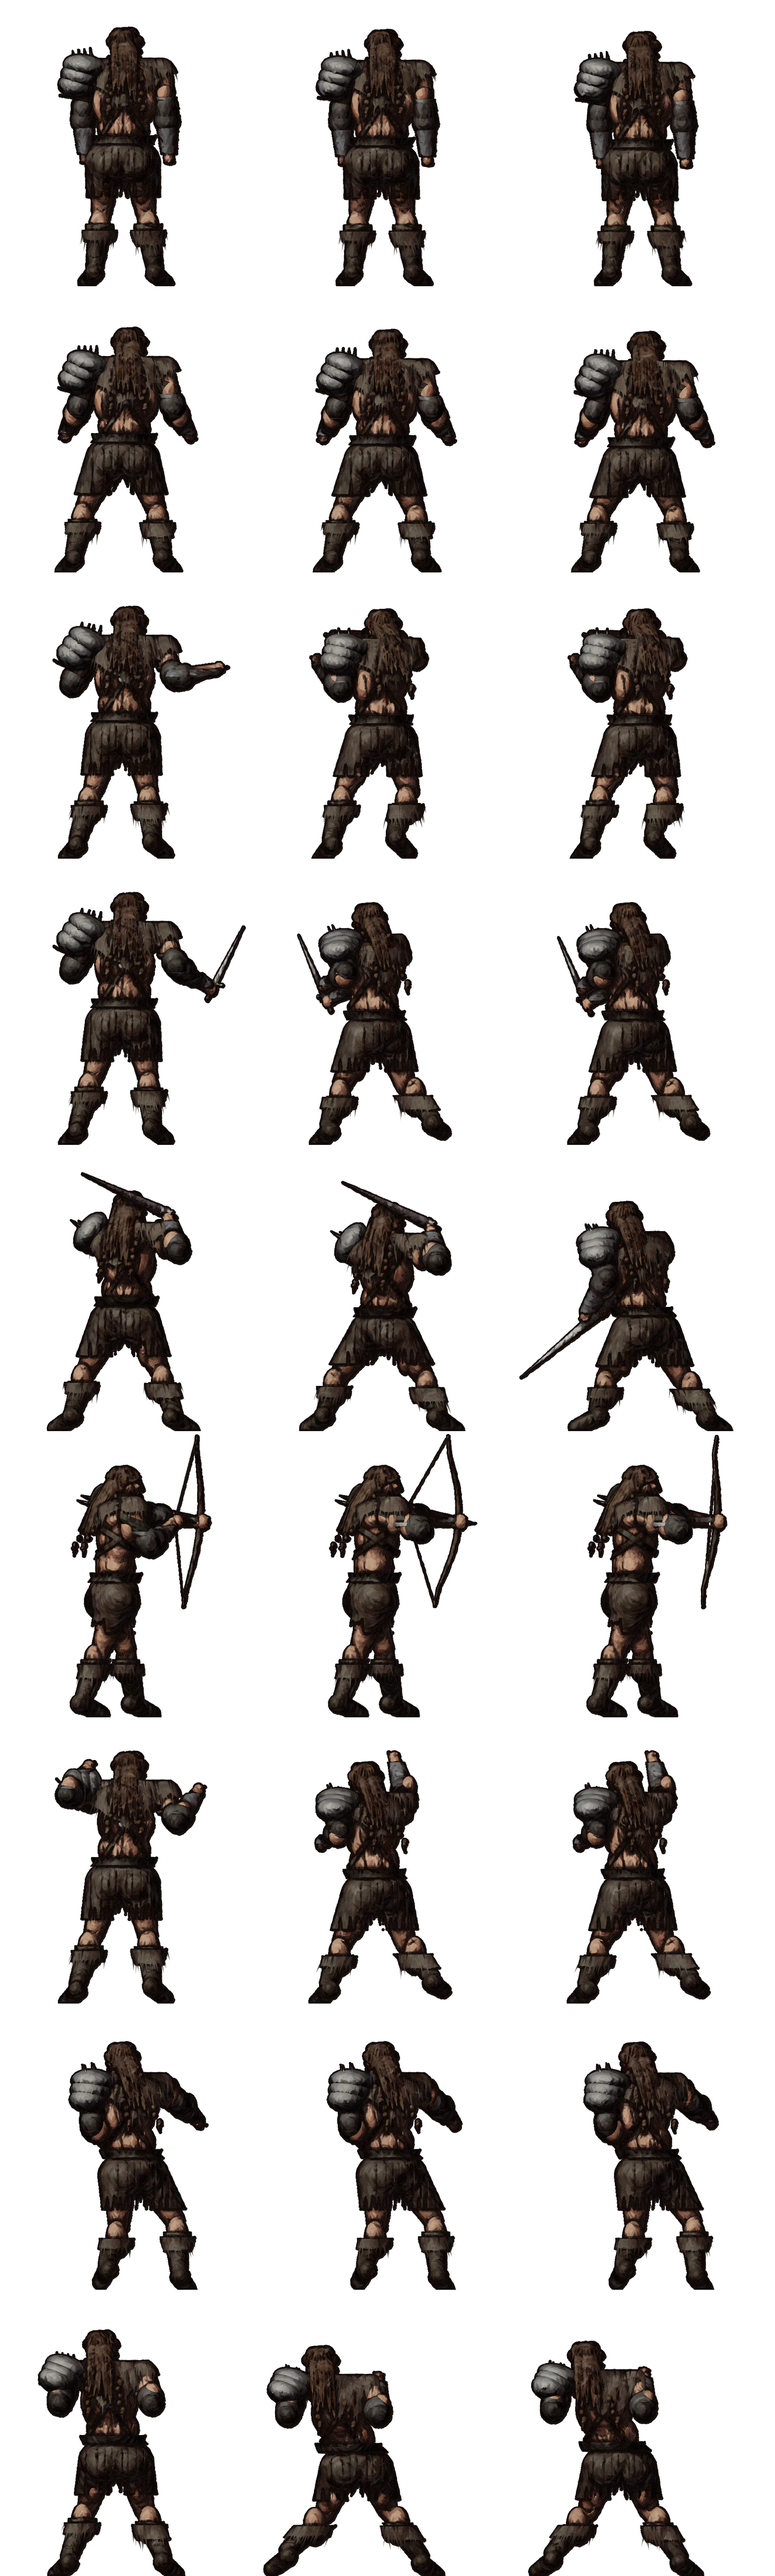
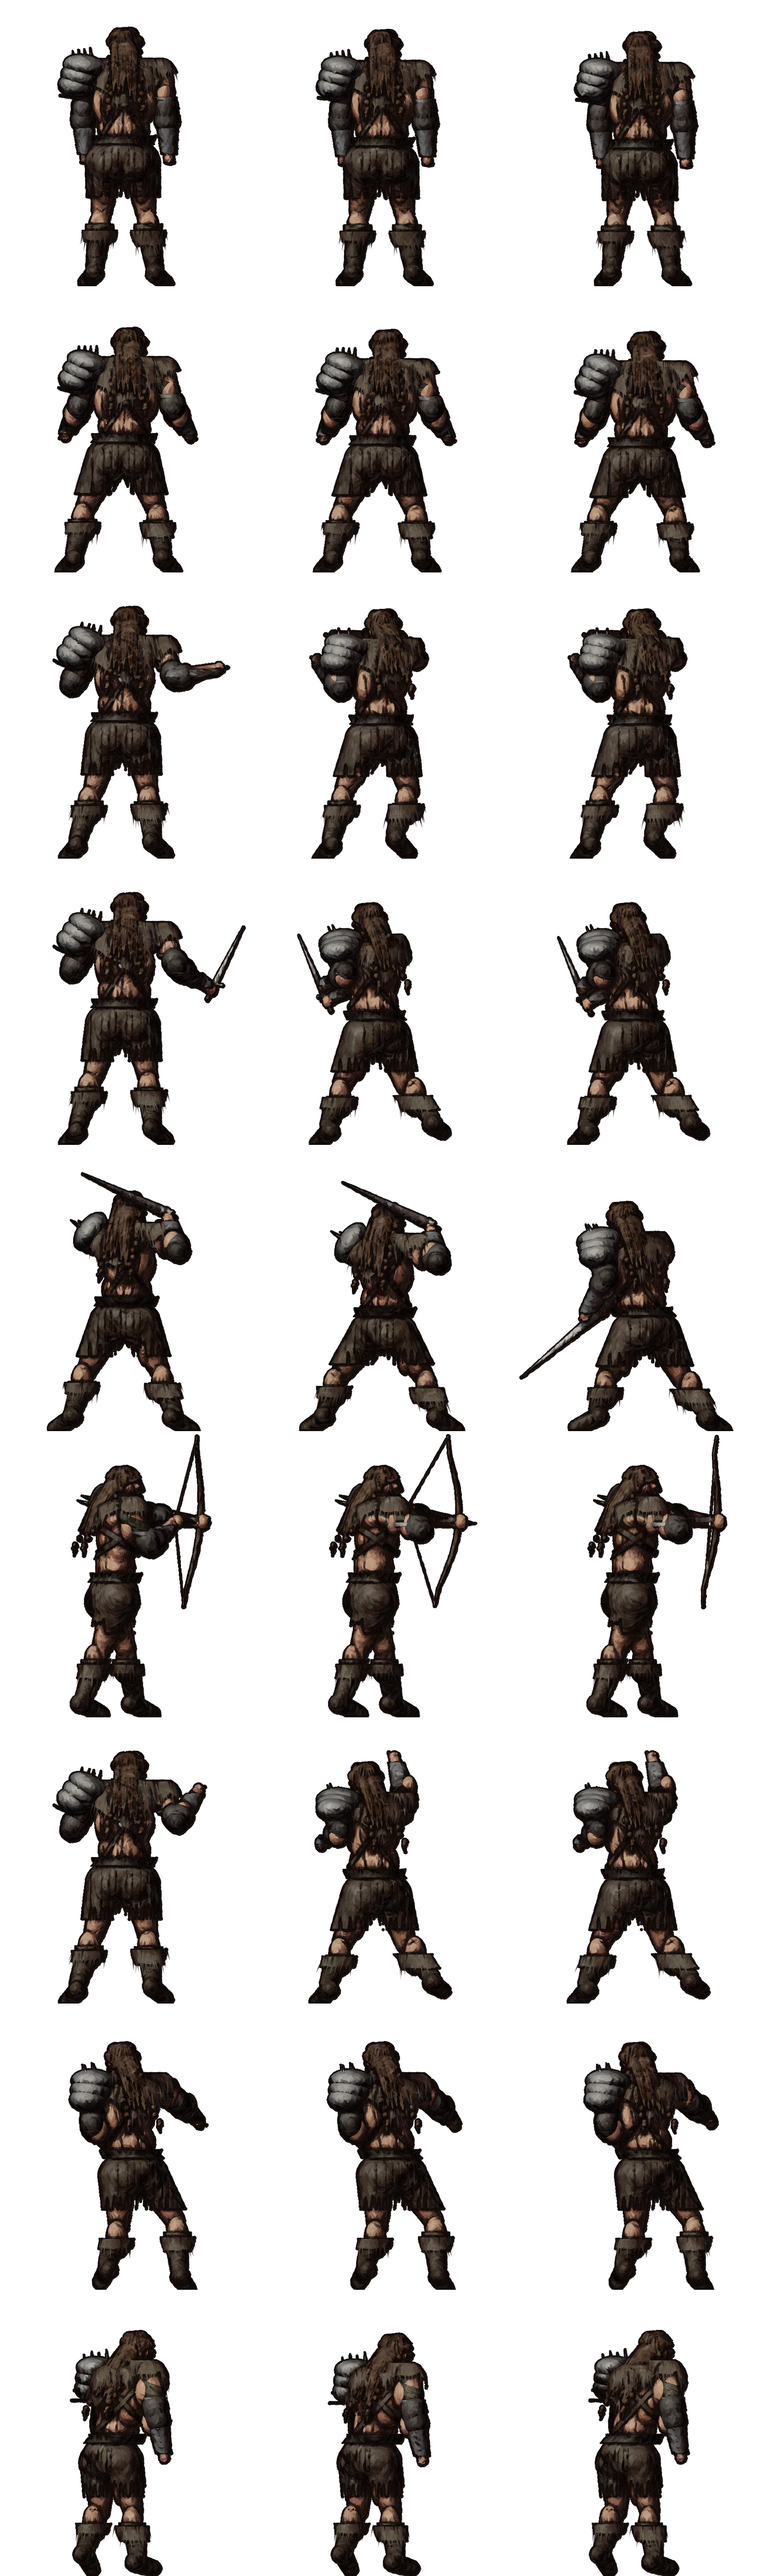
회피 동작 원래 칸으로 · 주문 첫 칸 왼팔 앞으로(AM54)
Claude-Session: https://claude.ai/code/session_01Afqs6emXDm5CcgKpbdj1LN

diff --git a/docs/ASSUMPTIONS.md b/docs/ASSUMPTIONS.md
@@ -636,6 +636,7 @@
 | AM51 | **인간 탐험가 망토 밑단 = 종아리**(사용자 2026-10-29 "전투 화면에서 망토 끝자락 단을 종아리까지 올려 줘" — 처음엔 캐릭터 전체를 올리는 것으로 알아듣고 바꿨다가 되돌림): h6 순찰자 망토 `len` 0.72 → 0.55(골반에서 땅까지의 55% — 장화 윗부분과 종아리가 보인다). 전투 뒷모습·동작 시트·맵 몸 그림을 다시 그림. 고정한 돌아선 자세 줄(AM48 `pinned/human_back_wait.png`)은 그 그림을 만든 커밋 d9fa108 코드에 망토 길이만 바꿔 다시 그려 고정(같은 코드로 0.72가 고정 그림과 픽셀까지 같은 것을 확인) | 긴 망토가 장화까지 덮어 다리가 안 보였다 | `tools/monster_art/MapLooks.gd` h6_ranger `cloak.len` → `paint_monsters --only=human_back`·`paint_motions --only=human_back`·`paint_actors --only=human`(고정 줄은 d9fa108 worktree에서 다시 그려 `pinned/`에 덮기) |
 | AM52 | **인간 망토: 목 둘레 가늘게 · 등 한복판 혹 없앰**(사용자 2026-10-30 "대기·전투 대기에서 망토랑 목이 너무 크게 이어져 있음 · 모든 프레임에서 등 한복판이 볼록"): ① 망토 겉감이 목까지 감싸던 것(`neck` 부위)을 빼고, 젖힌 두건 말이(collar)를 목 높이로 내리고 굵기 0.026 → 0.017 — 머리 뒤까지 이어지던 덩어리가 없어졌다. ② 등 자락 사슬(`echain` — 캡슐을 이은 것)이 마디 다섯 개뿐이라 이음매 구(캡슐 끝, 어깨 폭만 한 반지름)가 위 마디보다 깊어 등 위·한복판에 둥근 혹으로 솟았다 → 열쇠 높이(어깨·가슴·골반·무릎·단)를 마디 세 개씩 부드럽게 이어(13마디) 굵기·깊이가 고르게 변하게, 어깨 쪽은 좁고 얕게. 고정한 돌아선 자세 줄은 d9fa108 코드에 같은 수정(+ 망토 길이 0.55)으로 다시 그려 고정 | 망토는 어깨에서 늘어지는 천 — 목을 통째로 감싸거나 등에 혹이 생기면 안 된다 | `tools/monster_art/BackDrape.gd` drape()의 keys(높이·뒤로 빠짐·폭·깊이)·collar 값 → `paint_motions --only=human_back`·`paint_monsters --only=human_back`·`paint_actors --only=human` |
 | AM53 | **인간 망토 어깨 경계 없앰 · 공격 첫 칸 왼팔 · 회피 동작 새로**(사용자 2026-10-30 "망토 둥근 부분이 드러나는 게 싫다 — 어깨랑 망토 이어지는 경계선 지워 · 한손칼·주먹 지르기 1칸에서 왼팔이 뒤로 젖혀진 것처럼 보임 · 회피 동작 다시, 바바리안 것도"): ① 망토 겉감(몸 위 한 겹)을 0.024 → 0.032로 두껍게 하고 등 자락 사슬의 어깨·가슴 마디를 좁고 얕게 — 자락 윗부분이 겉감 아래에 묻혀 어깨~등이 한 장(둥근 판·어깨 경계선이 안 보인다). ② 주먹 지르기·칼 휘두르기 첫 칸: 왼팔(그림 왼쪽 위로 든 팔)의 팔꿈치·주먹을 먼 쪽(`d` "a" — 몸 앞)으로, 주먹을 조금 낮춰 앞으로 내민 주먹 막기 — 전엔 보는 사람 쪽으로 기울어 뒤로 젖힌 듯 보였다. ③ 회피(`wait` — 피했을 때 몸을 트는 3칸)를 새로 잼: 왼쪽으로 몸을 낮춰 비켜서며 두 주먹을 얼굴 앞으로 올려 막는 자세, 두 종족 같은 칸(인간 고정 그림 `pinned/human_back_wait.png` 지움). ④ 몸을 옆으로 옮긴 칸에서 장식이 몸 밖에 떠 보이던 것: 등 근육 결·척추 골·조끼 솔기(인간 칼집 위 막대처럼 보이던 것)·띠 치마 골·멜빵 고리·목걸이·털 망토 결·머리 타래·땋은 머리 끝(바바리안 오른팔 옆 점)이 쉰 자세 x(0)에 박혀 있던 것을 지금 자리의 목·가슴·허리·골반을 따르게, 어깨 반폭은 두 어깨 사이로 | 몸을 트는 동작이 늘면서 몸 좌표 0에 박힌 장식이 드러났다 | `tools/monster_art/party_motions.json`(thrust·swing 0칸 `d`·EL/HL, wait 3칸) · `BackDrape.GROW`·keys · `Back.body`·`BackKit`·`BackSavage`·`BackHair`의 자리 |
+| AM54 | **회피 = 원래 칸 · 주문 첫 칸 왼팔**(사용자 2026-10-30 "회피는 오징어처럼 뒤틀지 말고 살짝 옆으로 돌아 피하는 느낌 — 원래 쓰던 것처럼 · 주술 1칸 왼팔도"): AM53에서 새로 잰 회피 3칸을 버리고 원래 잰 `wait` 칸(몸을 0.9 돌려 옆으로 비켜 섬)으로 되돌림 — 고정 그림 대신 지금 몸·망토(AM51~AM53)로 두 종족 다시 그림. 주문(spell) 첫 칸 왼팔은 주먹·칼 첫 칸(AM53)처럼 뒤로 젖혀 보이던 것을 몸 앞으로 | 사용자가 원래 회피 자세를 원함 | `party_motions.json` wait·spell 0칸 |
 | AM13 | 입자는 CPUParticles2D(웹 호환), 플레이어를 따라가며 시야 반경 안에서만 생기고 월드에 남는다(걸어도 끌려가지 않음). 그림은 둥근 점(그러데이션 16px) — 손그림 입자는 A2 이후 | 지시서 §3.3·§7 | `AmbientParticles` |
 
 ## 1층 채우기 — 다른 탐험가·약탈자·밀도 (2026-10-21, 사용자 "abcdf 하고 싶은데 1층에도 약탈자가 있음" — `docs/plans/floor1_fill.md` A·B·C·D·F)

diff --git a/docs/archive/PROGRESS_LOG.md b/docs/archive/PROGRESS_LOG.md
@@ -6,6 +6,8 @@
 
 ## 작업 기록 (2026-10-20 이후 — 위가 최신)
 
+- **회피 원래대로 · 주문 첫 칸 왼팔 (2026-10-30, 사용자)** — AM54. party_motions wait = f942dae 이전 칸, spell 0칸 EL·HL·`d` = 주먹·칼 첫 칸과 같게. 두 종족 동작 시트 다시 그림, 확인 그림 `docs/screens/spell_evade.png`(주문 1칸 · 회피 3칸).
+
 - **망토 어깨 경계·공격 첫 칸 왼팔·회피 동작 새로 (2026-10-30, 사용자)** — AM53. 망토 겉감 0.032 + 등 자락 어깨 마디 좁게(둥근 판 안 보임) · party_motions thrust·swing 0칸 왼팔 앞으로(`d` EL·HL "a"는 팔꿈치까지 하면 너무 앞이라 HL만 + 주먹 낮춤) · wait(회피) 3칸 새로 잼(왼쪽으로 낮게 비켜서며 두 주먹 막기, 두 종족 같은 칸 — `pinned/human_back_wait.png` 지움, `paint_motions._pin`은 남김) · 몸을 옮긴 칸에서 쉰 자세 x에 박혀 떠 보이던 장식 고침(Back.body 등 결·척추 골, BackKit 조끼 솔기·털 망토(`hem_poly` center)·어깨 망토 주름, BackSavage 띠 치마·멜빵·목걸이, BackHair 타래·땋은 머리, BackDrape 단 범위). 다시 그림: 두 종족 동작 시트·뒷모습·맵 몸. 전후 `docs/screens/human_motions_fix.png`(대기·주먹·칼·회피 3칸), 바바리안 회피 `docs/screens/barbarian_evade.png`.
 
 - **인간 망토 목 둘레·등 혹 (2026-10-30, 사용자)** — AM52. `BackDrape.drape`: 겉감 부위에서 `neck` 뺌 · collar 말이 낮고 가늘게 · 등 자락 사슬을 열쇠 높이 5개 → 13마디로 부드럽게(이음매 구가 혹으로 솟던 것), 어깨 쪽 폭 shw → shw × 0.75. 조끼가 비쳐 보이지 않게 가슴 깊이는 그대로 덮는다. 고정한 돌아선 자세 줄(`pinned/human_back_wait.png`)은 d9fa108 worktree에 같은 수정을 넣어 다시 그림. 다시 그림: 동작 시트·전투 뒷모습·맵 몸. 전후 `docs/screens/human_cloak_back.png`(대기·전투 자세·칼 휘두르기·활). 마지막 줄(돌아선 자세 `wait`)은 회피 동작 — 적 공격을 피하면(CombatScreen `"wait" if not hit`) 몸을 틀어 피하는 3칸.

diff --git a/docs/PLAYTEST.md b/docs/PLAYTEST.md
@@ -14,7 +14,7 @@
 | 4 | 탄광 다리·원형 갱·묘 구덩이 | 안쪽 구덩이는 그대로 내려가는 낭떠러지 |
 | 5 | 인간 탐험가로 전투(동료와 함께면 잘 보인다) | 망토 밑단이 종아리 높이 — 장화 윗부분이 보인다 · 모든 동작·돌아선 자세도 같은 길이 |
 | 6 | 인간 탐험가 대기·전투 자세를 본다 | 목 둘레 망토가 가늘다(머리까지 굵게 이어지지 않는다) · 등 한복판이 볼록하지 않다 |
-| 7 | 전투에서 공격·회피를 본다(인간·바바리안) | 망토 어깨에 둥근 판·경계선이 없다 · 주먹·칼 첫 칸 왼팔이 앞으로 막는다 · 피하면 왼쪽으로 낮게 비켜서며 두 주먹을 올린다 · 몸 밖에 뜬 막대·점이 없다 |
+| 7 | 전투에서 공격·회피를 본다(인간·바바리안) | 망토 어깨에 둥근 판·경계선이 없다 · 주먹·칼 첫 칸 왼팔이 앞으로 막는다 · 피하면 몸을 살짝 옆으로 돌려 비켜 선다 · 주문 첫 칸 왼팔도 앞으로 · 몸 밖에 뜬 막대·점이 없다 |
 
 ### 균열 낭떠러지·탄광 다리 (2026-10-29)
 

diff --git a/docs/PROGRESS.md b/docs/PROGRESS.md
@@ -38,7 +38,7 @@
 
 ## 3. 최근 작업 (위가 최신, 10줄까지 — 자세한 것은 PROGRESS_LOG에서 제목으로)
 
-- 2026-10-30 **망토 어깨 경계 없앰 · 공격 첫 칸 왼팔 앞으로 · 회피 동작 새로(두 종족) · 몸 밖에 뜬 장식 고침**(AM53).
+- 2026-10-30 **망토 어깨 경계 없앰 · 주먹·칼·주문 첫 칸 왼팔 앞으로 · 회피는 원래 칸(두 종족 다시 그림) · 몸 밖에 뜬 장식 고침**(AM53·AM54).
 - 2026-10-30 **인간 망토 목 둘레 가늘게 · 등 한복판 혹 없앰**(AM52 — 등 자락 사슬 13마디).
 - 2026-10-29 **인간 탐험가 망토 밑단을 종아리로(len 0.55) — 전투·동작·맵 다시 그림, 고정 돌아선 자세 줄도**(AM51).
 - 2026-10-29 **균열 바깥 둘레 = 솟은 외곽(성채 = 성벽 + 너머 성 지붕·탑, 빙하굴 = 빙벽 + 설원)**, 안쪽 구덩이는 낭떠러지 그대로(AM50).
